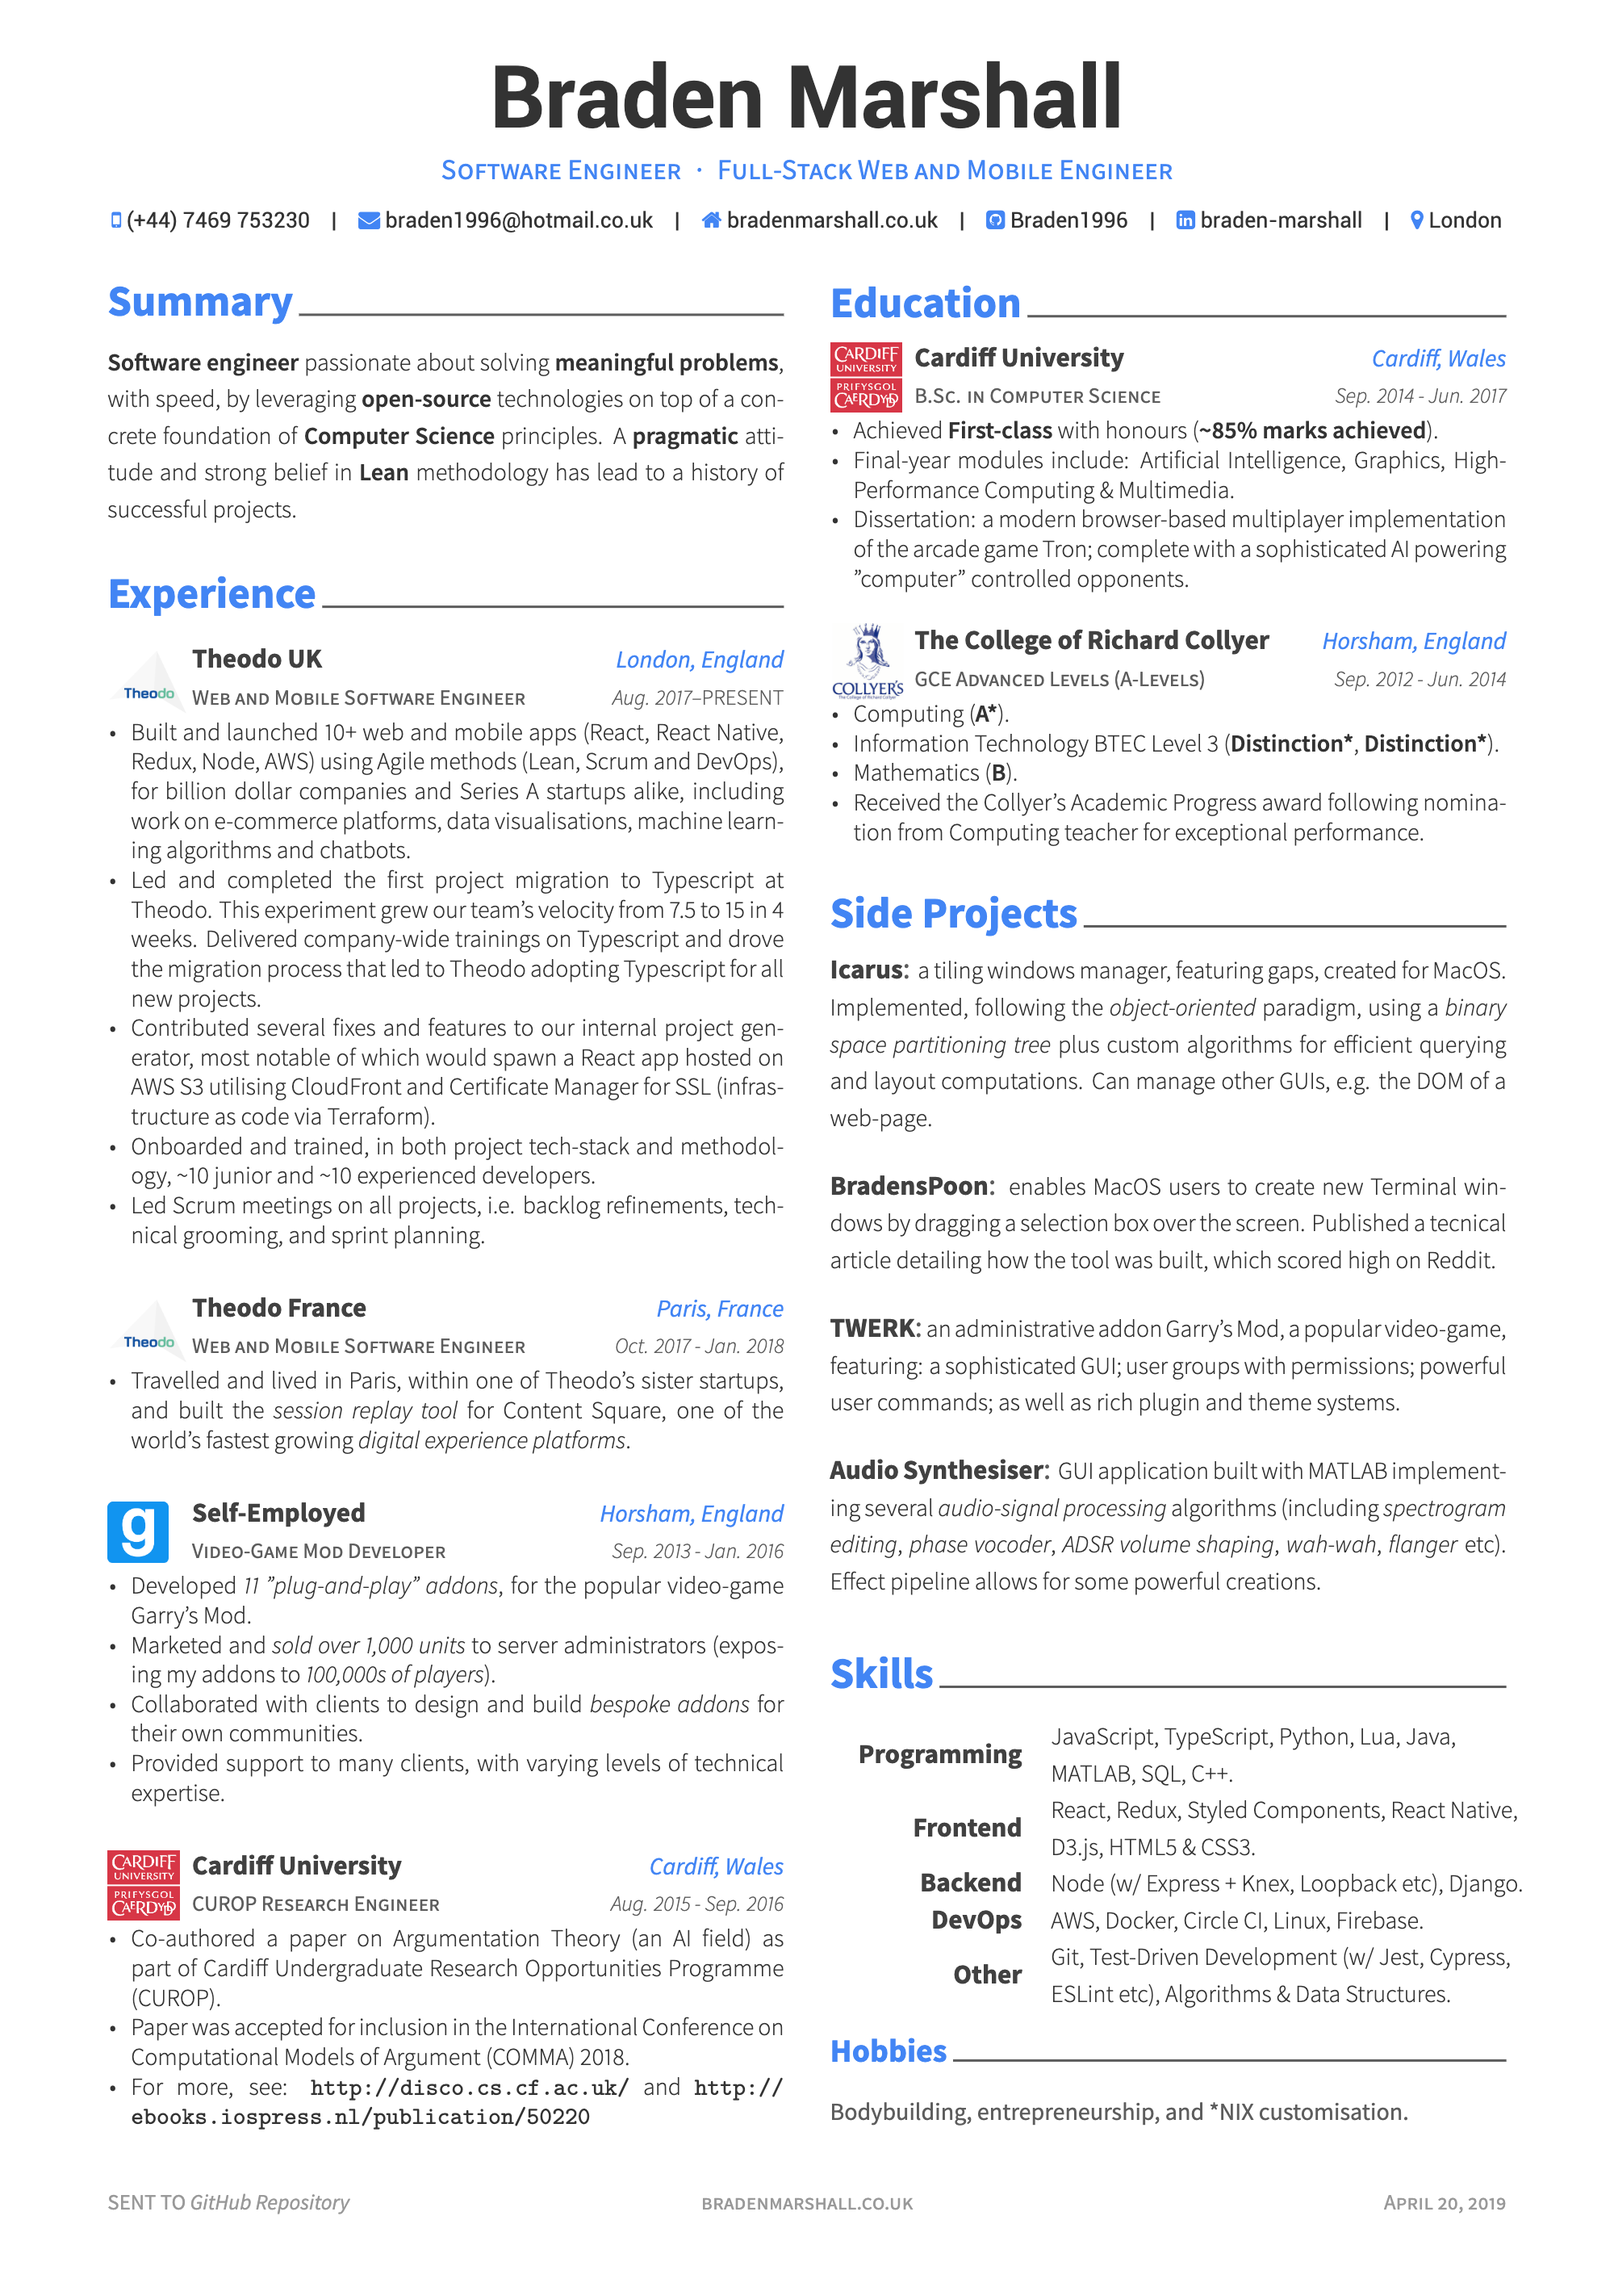
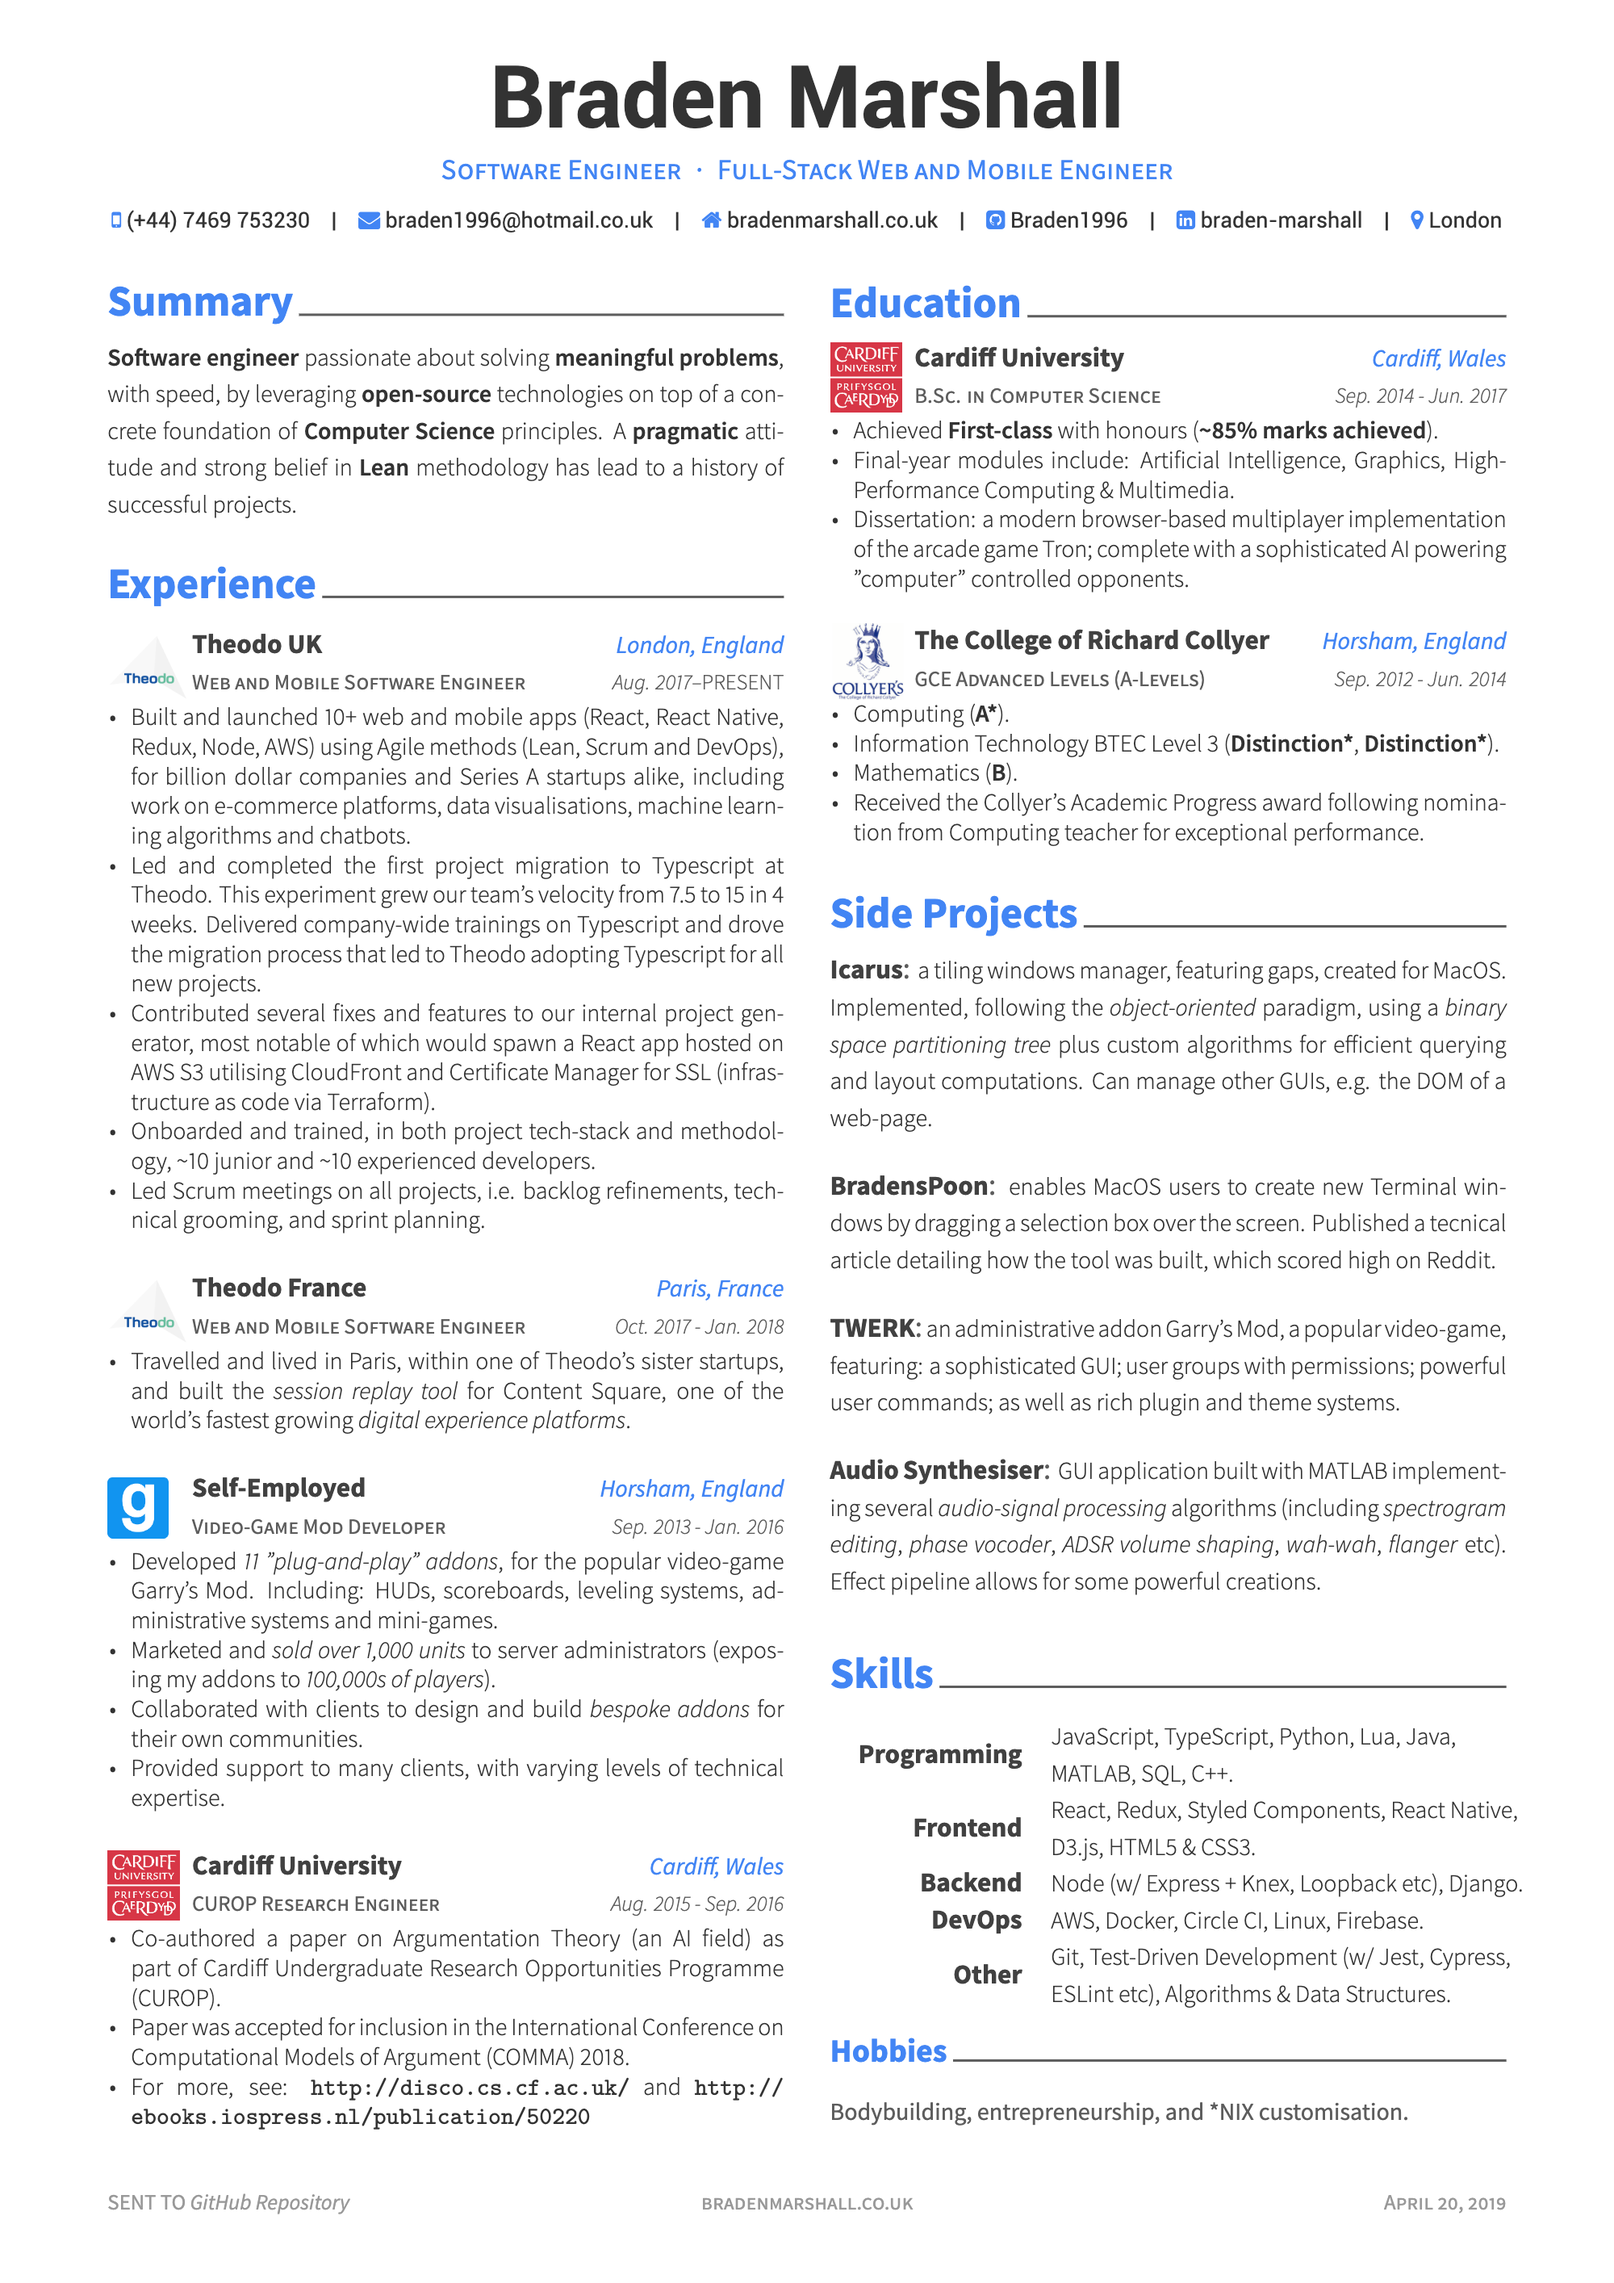
List types of addons created for Garrys Mod.

Changed region(s): [[0.062, 0.1556, 0.496, 0.8091]]

diff --git a/resume/1_experience.tex b/resume/1_experience.tex
@@ -37,7 +37,7 @@
     {Sep. 2013 - Jan. 2016}
     {
       \begin{cvitems}
-        \item Developed \textit{11 "plug-and-play" addons}, for the popular video-game \href{https://gmod.facepunch.com/}{Garry's Mod}.
+        \item Developed \textit{11 "plug-and-play" addons}, for the popular video-game \href{https://gmod.facepunch.com/}{Garry's Mod}. Including: HUDs, scoreboards, leveling systems, administrative systems and mini-games.
         \item Marketed and \textit{sold over 1,000 units} to server administrators (exposing my addons to \textit{100,000s of players}).
         \item Collaborated with clients to design and build \textit{bespoke addons} for their own communities.
         \item Provided support to many clients, with varying levels of technical expertise.
